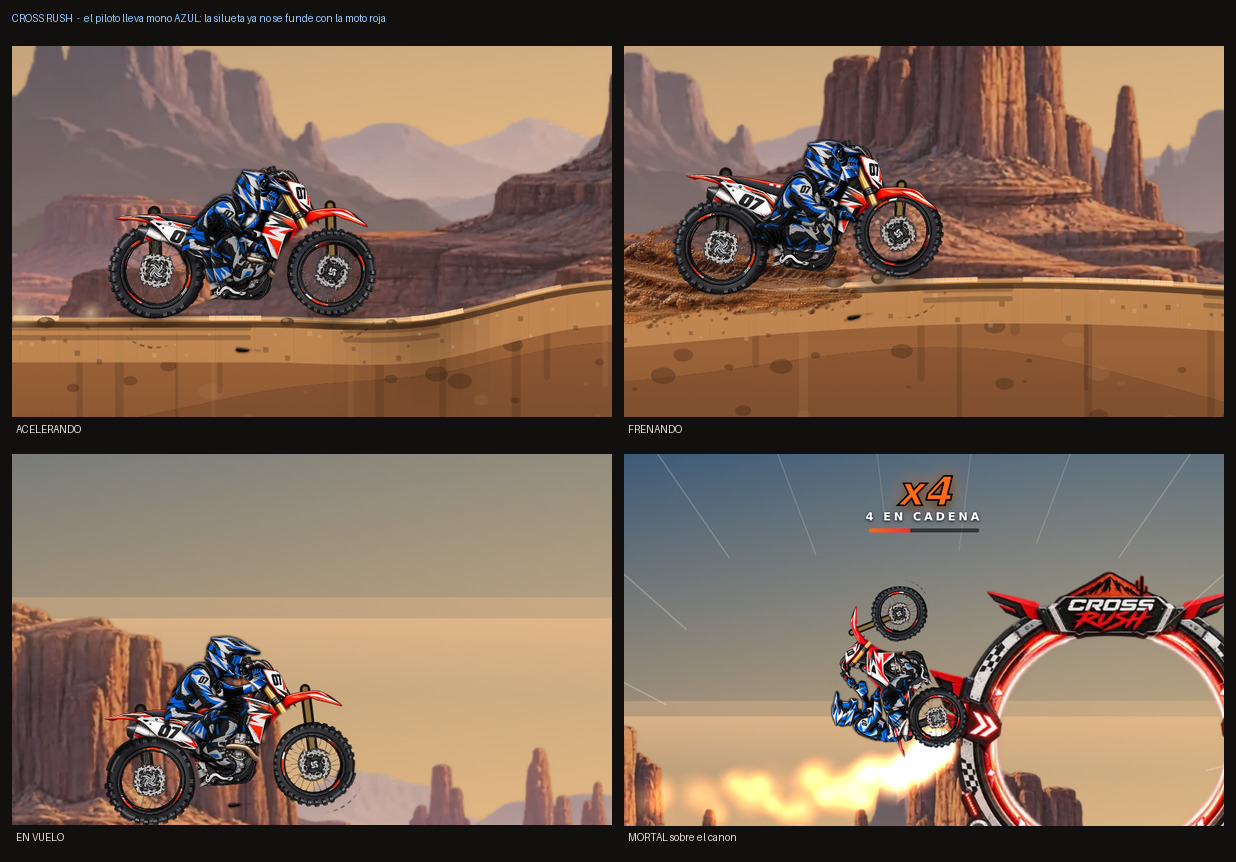
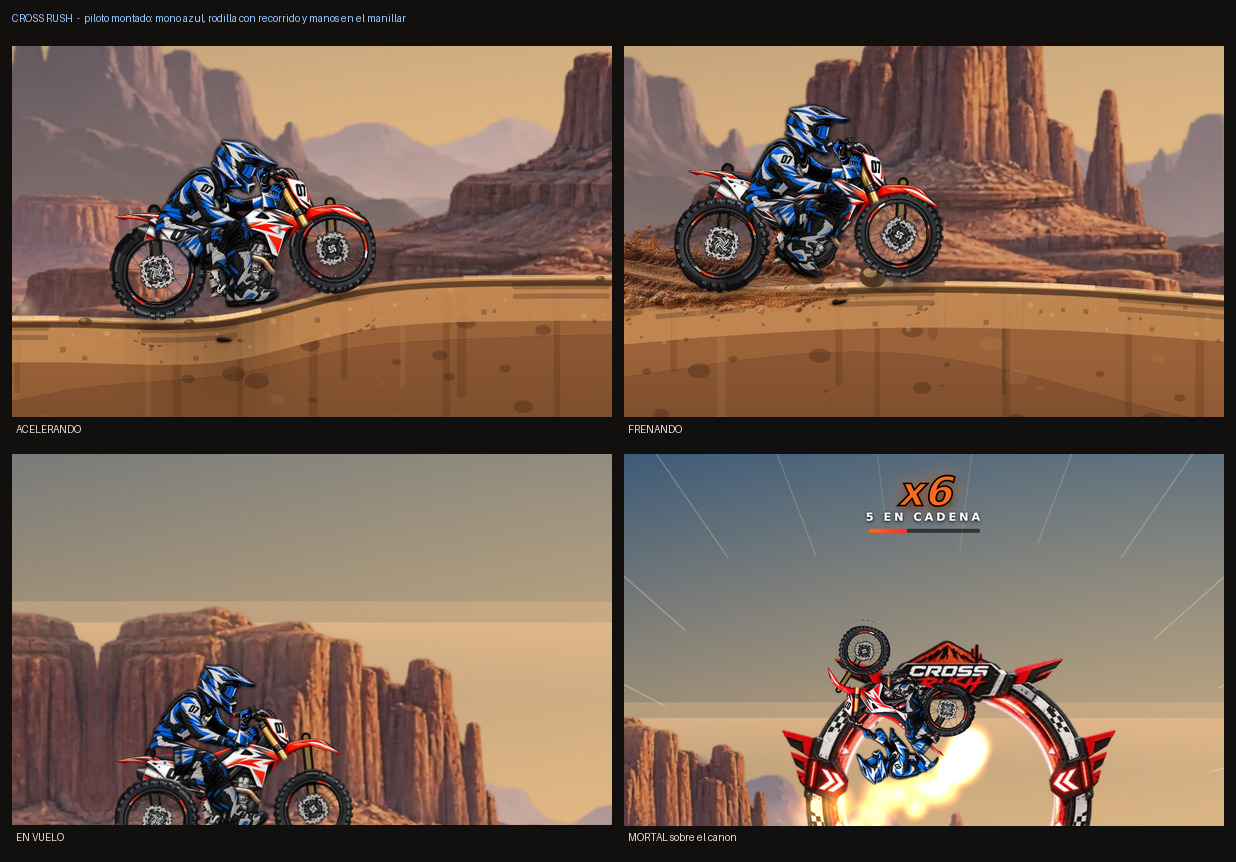
El piloto va montado en la moto, no pegado encima
Se veia mal desde el principio y no lo cazaba nada: ni un tipo, ni un test, ni
el QA visual. El piloto parecia una mancha azul sobre el carenado en vez de
alguien conduciendo.

La causa eran los dos anclajes del rig, y los dos caian dentro del motor:

- La CADERA estaba a -0,17 m, veinte centimetros por debajo del asiento. El
  cuerpo no se apoyaba en la moto, se hundia en ella.
- La ESTRIBERA estaba a -0,27 m. El arte de la moto la pone en el pixel
  (370, 330), que con el centro de masas en (341.7, 176.3) y la foto a 347
  px/m son (+0,08, -0,44): estaba 17 cm mas arriba de donde el propio dibujo
  dice que esta. La subi yo, para arreglar una bota que colgaba por debajo del
  carter, y fue un error de diagnostico: la bota colgaba por la cadera.

Entre las dos, la cadera acababa a 6 cm del tobillo con 52 cm de pierna que
colocar, asi que la cinematica inversa no tenia mas remedio que plegarla del
todo. Medido sobre una vuelta completa, antes y ahora:

  rodilla                          0-70 grados (mediana 37)  ->  76-180 (97)
  manos fuera del manillar         65,4% de los fotogramas   ->  2,4%
  pie fuera de la estribera        0% (sobraba pierna)       ->  3,1%
  altura del piloto agachado       1,28 m                    ->  1,42 m

La segunda linea es la que explica lo que se veia: durante dos tercios de la
vuelta el piloto ni siquiera se agarraba al manillar.

Los anclajes nuevos no se eligen a ojo. Se graban las 3.167 poses de una
[…]

diff --git a/cross-rush/tests/riderRig.test.ts b/cross-rush/tests/riderRig.test.ts
@@ -1,0 +1,167 @@
+/**
+ * El piloto tiene que ir MONTADO en la moto, no pegado encima.
+ *
+ * Esta prueba existe por un fallo que sobrevivio a varias rondas de revision
+ * visual porque nadie lo estaba midiendo: la cadera del piloto estaba anclada
+ * 20 cm por debajo del asiento -dentro del motor- y la estribera 17 cm por
+ * encima de donde la pone el arte. Entre las dos, la cadera acababa a 6 cm del
+ * tobillo con 52 cm de pierna que colocar, asi que la cinematica inversa no
+ * tenia mas remedio que plegarla del todo: la rodilla salia a 7 grados y el
+ * muslo, la espinilla y la bota se amontonaban en una mancha sobre el
+ * carenado. Peor todavia, el brazo se quedaba corto y las manos se despegaban
+ * del manillar en dos de cada tres fotogramas.
+ *
+ * Nada de eso rompia un test ni un tipo. Se veia, y punto. De ahi que lo que
+ * se comprueba aqui sea justo lo que se veia mal.
+ */
+import { describe, expect, it } from 'vitest';
+import { BikeState, createInitialBikeState, stepBike } from '../src/physics/Bike';
+import { InputSmoother } from '../src/input/InputSmoothing';
+import { buildCanyonRun } from '../src/tracks/CanyonRun';
+import { RiderConfig, SIM_DT } from '../src/config/GameConfig';
+
+// SpriteAssets construye HTMLImageElement al cargarse, que en node no existe.
+// El rig no los usa para resolver la postura -solo para dibujarla-, asi que un
+// doble minimo basta para poder importar el modulo y medir la geometria.
+(globalThis as unknown as { Image: unknown }).Image = class {
+  src = '';
+  naturalWidth = 1;
+  naturalHeight = 1;
+};
+
+const { solveRiderRig, HANDLEBAR_GRIP_LOCAL, FOOTPEG_LOCAL } = await import('../src/rendering/RiderRig');
+const { SpriteCalibration } = await import('../src/rendering/SpriteAssets');
+
+const rig = SpriteCalibration.riderRig;
+const legReach = (rig.thigh.lengthPx + rig.shin.lengthPx) / rig.pxPerMeter;
+const armReach = (rig.armUpper.lengthPx + rig.armFore.lengthPx) / rig.pxPerMeter;
+
+/** El tobillo apunta un poco por encima de la estribera (ver RiderRig). */
+const ANKLE_OVER_PEG = { x: -0.02, y: 0.1 };
+
+function pose(shiftX: number, shiftY: number, torsoAngle: number) {
+  return { shiftX, shiftY, torsoAngle, shiftXVelocity: 0, shiftYVelocity: 0, torsoVelocity: 0 };
+}
+
+function distance(a: { x: number; y: number }, b: { x: number; y: number }): number {
+  return Math.hypot(a.x - b.x, a.y - b.y);
+}
+
+/** Angulo interior de la rodilla en grados: 180 es pierna estirada. */
+function kneeDegrees(hipToAnkle: number): number {
+  const t = rig.thigh.lengthPx / rig.pxPerMeter;
+  const s = rig.shin.lengthPx / rig.pxPerMeter;
+  const d = Math.min(hipToAnkle, t + s);
+  const cos = (t * t + s * s - d * d) / (2 * t * s);
+  return (Math.acos(Math.max(-1, Math.min(1, cos))) * 180) / Math.PI;
+}
+
+/**
+ * Poses REALES, no un barrido sobre la caja de topes.
+ *
+ * El primer intento de esta prueba recorria el rectangulo completo
+ * (maxShiftX x maxShiftY x maxTorsoAngle) y suspendia con cualquier anclaje:
+ * sus esquinas -cuerpo del todo atras Y del todo agachado Y con el torso
+ * girado al maximo- no ocurren jamas, porque las tres cosas las produce la
+ * misma fisica y van acopladas. Medir sobre poses imposibles habria obligado a
+ * elegir anclajes malos para las de verdad.
+ *
+ * Asi que se conduce: la moto rueda a gas por la pista de verdad, salta lo que
+ * tenga que saltar, y se mide el rig sobre la pose que sale de cada tick.
+ */
+function posesDeUnaVuelta(): Array<{ hipToAnkle: number; shoulderToGrip: number }> {
+  const track = buildCanyonRun();
+  let state: BikeState = createInitialBikeState(track.startX, track.terrain.surfaceY(track.startX) + 0.6);
+  const smoother = new InputSmoother();
+  const out: Array<{ hipToAnkle: number; shoulderToGrip: number }> = [];
+  const ankle = { x: FOOTPEG_LOCAL.x + ANKLE_OVER_PEG.x, y: FOOTPEG_LOCAL.y + ANKLE_OVER_PEG.y };
+  const ticks = Math.round(45 / SIM_DT);
+  for (let i = 0; i < ticks; i += 1) {
+    // Se pilota igual que el arnes de captura: gas a fondo y el cuerpo
+    // buscando la pendiente que viene mientras se vuela.
+    const air = !state.front.inContact && !state.rear.inContact;
+    let lean = 0;
+    if (air) {
+      const ahead = state.x + Math.max(2, Math.abs(state.vx) * 0.32);
+      const target = Math.atan(track.terrain.surfaceSlope(ahead));
+      let delta = target - state.angle;
+      while (delta > Math.PI) delta -= Math.PI * 2;
+      while (delta <= -Math.PI) delta += Math.PI * 2;
+      const want = delta * 2.2 - state.angularVelocity * 0.42;
+      lean = want > 0.25 ? 1 : want < -0.25 ? -1 : 0;
+    }
+    const smoothed = smoother.update(
+      { throttle: true, brake: false, lean, restartPressed: false, boostPressed: false },
+      SIM_DT,
+    );
+    state = stepBike(state, track.terrain, { throttle: true, brake: false, lean: smoothed.lean, smoothed }, SIM_DT);
+    const g = solveRiderRig({ x: state.x, y: state.y }, state.angle, state.rider, 100);
+    // El rig se resuelve en mundo; para medir alcances se compara contra los
+    // agarres llevados al mismo espacio.
+    const cos = Math.cos(state.angle);
+    const sin = Math.sin(state.angle);
+    const toWorld = (p: { x: number; y: number }) => ({
+      x: state.x + p.x * cos - p.y * sin,
+      y: state.y + p.x * sin + p.y * cos,
+    });
+    out.push({
+      hipToAnkle: distance(g.hipWorld, toWorld(ankle)),
+      shoulderToGrip: distance(g.shoulderWorld, toWorld(HANDLEBAR_GRIP_LOCAL)),
+    });
+    if (state.x > track.finishX) break;
+  }
+  return out;
+}
+
+describe('anclajes del piloto', () => {
+  it('la estribera esta donde la pone el arte de la moto, no dentro del motor', () => {
+    // Pixel (370, 330) de bike_body.png, con el centro de masas en
+    // (341.7, 176.3) y la foto a 347 px/m.
+    expect(FOOTPEG_LOCAL.x).toBeCloseTo((370 - 341.7) / 347, 2);
+    expect(FOOTPEG_LOCAL.y).toBeCloseTo(-(330 - 176.3) / 347, 2);
+  });
+
+  it('sentado en reposo la rodilla va franca, no plegada', () => {
+    const g = solveRiderRig({ x: 0, y: 0 }, 0, pose(0, 0, 0), 100);
+    const ankle = { x: FOOTPEG_LOCAL.x + ANKLE_OVER_PEG.x, y: FOOTPEG_LOCAL.y + ANKLE_OVER_PEG.y };
+    const knee = kneeDegrees(distance(g.hipWorld, ankle));
+    // Un piloto sentado en una moto de cross lleva la rodilla cerca de 90
+    // grados. Con los anclajes viejos salian 7.
+    expect(knee).toBeGreaterThan(70);
+    expect(knee).toBeLessThan(115);
+  });
+
+  it('el pie se queda en la estribera durante toda la vuelta', () => {
+    const muestras = posesDeUnaVuelta();
+    expect(muestras.length).toBeGreaterThan(2000);
+    const fuera = muestras.filter((s) => s.hipToAnkle > legReach);
+    // Solo se admite despegue en el pico de extension de un salto grande.
+    expect(fuera.length / muestras.length).toBeLessThan(0.08);
+  });
+
+  it('las manos se quedan en el manillar durante toda la vuelta', () => {
+    const muestras = posesDeUnaVuelta();
+    const fuera = muestras.filter((s) => s.shoulderToGrip > armReach);
+    // Con los anclajes viejos se despegaban en DOS DE CADA TRES fotogramas.
+    expect(fuera.length / muestras.length).toBeLessThan(0.08);
+  });
+
+  it('la pierna trabaja: se dobla y se estira a lo largo de la vuelta', () => {
+    const rodillas = posesDeUnaVuelta().map((s) => kneeDegrees(s.hipToAnkle));
+    const min = Math.min(...rodillas);
+    const max = Math.max(...rodillas);
+    // Antes iba de 0 a 70 grados: siempre plegada, sin recorrido util.
+    expect(min).toBeGreaterThan(55);
+    expect(max - min).toBeGreaterThan(50);
+  });
+
+  it('el piloto tiene medidas de adulto sobre esta moto', () => {
+    const hipToHelmet = 226.9 / rig.pxPerMeter;
+    // Cadera a coronilla de un adulto: 0,80-0,95 m. Con 300 px/m salian 0,76.
+    expect(hipToHelmet).toBeGreaterThan(0.8);
+    expect(hipToHelmet).toBeLessThan(0.95);
+    // Y las extremidades tienen que dar mas de si que el recorrido del cuerpo.
+    expect(legReach).toBeGreaterThan(2 * RiderConfig.maxShiftY);
+    expect(armReach).toBeGreaterThan(RiderConfig.maxShiftY);
+  });
+});

diff --git a/cross-rush/src/rendering/RiderRig.ts b/cross-rush/src/rendering/RiderRig.ts
@@ -32,34 +32,51 @@ import { RiderPose } from '../physics/RiderPose';
  * centro de masas en (341.7, 176.3), con la foto a 347 px/m.
  */
 export const HANDLEBAR_GRIP_LOCAL: Vec2 = { x: 0.19, y: 0.40 };
-/** Estribera, en el mismo espacio. Pixel (370, 330) de la foto del chasis. */
 /**
  * Estribera en espacio local del chasis.
  *
- * Estaba a 0,42 m por debajo del centro de masas, que sobre este arte deja el
- * apoyo a 23 cm del suelo: mas abajo que el motor. La bota del piloto, que
- * sobresale por delante del tobillo, acababa colgando por debajo del carter,
- * flotando fuera de la moto. En una moto de verdad la estribera esta a la
- * altura del bajo del motor, no debajo.
+ * Sale del arte, no de una estimacion: en `bike_body.png` la estribera cae en
+ * el pixel (370, 330), y con el centro de masas en (341.7, 176.3) y la foto a
+ * 347 px/m eso son (+0.08, -0.44) m. Queda a la altura del bajo del motor,
+ * que es donde esta en una moto de verdad.
+ *
+ * Estuvo subida a -0,27 para arreglar una bota que colgaba por debajo del
+ * carter, y fue un error de diagnostico: la bota colgaba porque la CADERA
+ * estaba demasiado baja y la pierna salia doblada del todo, no porque la
+ * estribera estuviera mal. Subirla ademas dejaba el apoyo dentro del motor,
+ * a 10 cm de la cadera, y remataba de plegar la pierna.
  */
-export const FOOTPEG_LOCAL: Vec2 = { x: 0.02, y: -0.27 };
+export const FOOTPEG_LOCAL: Vec2 = { x: 0.08, y: -0.44 };
 /**
  * Cadera del piloto en reposo, en espacio local del chasis. Es el punto sobre
  * el que actua la pose (desplazamiento y agachado); las extremidades salen de
  * ahi y se resuelven contra los agarres.
  *
- * Queda por encima del asiento (que esta a y = -0.18) porque el arte del
- * piloto es una pose de ataque, de pie sobre las estriberas: en esa postura
- * las caderas van flotando sobre el asiento, no apoyadas en el.
- */
-/**
- * Cadera del piloto en espacio local del chasis.
+ * Es el numero que hacia que el piloto se viera "pegado" a la moto. Estuvo en
+ * -0,17, o sea 20 cm por debajo del asiento: la cadera caia DENTRO del motor,
+ * a 6 cm del tobillo, y con 52 cm de pierna disponible la cinematica inversa
+ * no tenia mas remedio que plegarla entera. La rodilla salia a 7 grados -una
+ * navaja cerrada- y el muslo, la espinilla y la bota se amontonaban en una
+ * mancha sobre el carenado. No habia postura, habia bulto.
  *
- * Bajada de -0,09 a -0,17: con la anterior el cuerpo quedaba apoyado ENCIMA
- * del asiento en vez de metido en el, y el conjunto se leia como un muneco
- * colocado sobre la moto y no como alguien montado.
+ * Ahora sale de una medida, no de una estimacion: se graban las 3.167 poses
+ * de una vuelta completa (desplazamiento del cuerpo y giro de torso reales) y
+ * se busca el par cadera/escala que sobre ESAS poses deja la rodilla cerca de
+ * los 90 grados en reposo y mantiene pegados el pie a la estribera y las manos
+ * al manillar el mayor numero de fotogramas.
+ *
+ * Sobre la misma vuelta, antes y despues:
+ *
+ *   antes    rodilla 0-70 grados (mediana 37), manos FUERA del manillar en el
+ *            65% de los fotogramas, hasta 19 cm
+ *   ahora    rodilla 76-180 (mediana 97), manos fuera en el 2,4% (peor 5 cm) y
+ *            pie fuera de la estribera en el 3,1% (peor 10 cm), y solo en el
+ *            pico de extension de un salto grande
+ *
+ * O sea que el problema no era solo que la pierna se viera plegada: durante
+ * dos tercios de la vuelta el piloto ni siquiera se agarraba al manillar.
  */
-export const RIDER_HIP_LOCAL: Vec2 = { x: -0.06, y: -0.17 };
+export const RIDER_HIP_LOCAL: Vec2 = { x: -0.22, y: -0.03 };
 
 /**
  * Desplazamiento de la pierna del lado LEJANO respecto a la cercana. La misma

diff --git a/cross-rush/src/rendering/SpriteAssets.ts b/cross-rush/src/rendering/SpriteAssets.ts
@@ -181,12 +181,6 @@ export const SpriteCalibration = {
    */
   wheelRear: { pivotPx: { x: 134.0, y: 134.0 } as PixelPoint, tyreRadiusPx: 131.3 },
   wheelFront: { pivotPx: { x: 123.0, y: 123.0 } as PixelPoint, tyreRadiusPx: 120.8 },
-  rider: {
-    /** Punto de cadera/asiento dentro de rider.png, para anclarlo al asiento de la moto. */
-    hipPivotPx: { x: 105.0, y: 226.0 } as PixelPoint,
-    /** Altura efectiva asumida de la postura agachada, en metros (calibra la escala del piloto). */
-    assumedHeightMeters: 1.4,
-  },
 
   /**
    * Piloto articulado. Las cinco piezas las produce
@@ -194,15 +188,23 @@ export const SpriteCalibration = {
    * -tamano y pivote de cada una, longitudes de hueso- queda volcada en
    * `assets-src/rider_rig.json`. Aqui se copia lo que necesita el render.
    *
-   * `pxPerMeter` es la escala del piloto: 300 px por metro. No es arbitraria,
-   * sale de que con ella el alcance de la pierna (156.7 px = 0.52 m) cubre
-   * holgadamente la distancia de la cadera a la estribera (0.40 m) con la
-   * rodilla doblada, y el del brazo (98 px = 0.33 m) cubre la del hombro al
-   * manillar (0.25 m) con el codo doblado. Es decir: el piloto llega a los dos
-   * agarres sin estirarse del todo, que es como se conduce.
+   * `pxPerMeter` es la escala del piloto: 270 px por metro.
+   *
+   * Estuvo en 300 y era demasiado pequeno. Con esa escala el piloto media
+   * 1,28 m agachado -un nino-, pero lo que de verdad importaba es que su
+   * pierna entera alcanzaba 0,52 m y su brazo 0,33 m, mientras que la pose le
+   * pide a la cadera un recorrido de 0,48 m en vertical y 0,35 m en
+   * horizontal. No cabia, y las extremidades se quedaban cortas la mayor
+   * parte de la vuelta.
+   *
+   * A 270 px/m el alcance sube a 0,58 m de pierna y 0,36 m de brazo. Medido
+   * sobre las poses reales de una vuelta, ese margen baja los fotogramas con
+   * la mano despegada del manillar del 65% al 2,4%. De paso el piloto pasa a
+   * medir 1,42 m agachado, que es lo que mide un adulto en esa postura sobre
+   * una moto cuyo asiento queda a 1,06 m del suelo.
    */
   riderRig: {
-    pxPerMeter: 300,
+    pxPerMeter: 270,
     /** Angulo del hueso en la foto, en convenio de mundo (Y arriba). */
     torso: { pivotPx: { x: 105.0, y: 226.0 } as PixelPoint, shoulderPx: { x: 158.0, y: 122.0 } as PixelPoint },
     armUpper: { pivotPx: { x: 38.0, y: 34.0 } as PixelPoint, lengthPx: 58.3, restAngle: -0.5404 },

diff --git a/cross-rush/src/rendering/Renderer.ts b/cross-rush/src/rendering/Renderer.ts
@@ -940,9 +940,12 @@ export class Renderer {
     // un piloto con otro aspecto que el de la moto real. El fantasma es una
     // silueta translucida, asi que el torso solo se lee igual de bien.
     const seatOffset = rotateVec(SEAT_LOCAL, ghost.rotation);
+    // La escala sale del rig, no de una altura asumida aparte: es el MISMO
+    // sprite que dibuja el piloto vivo, asi que si las dos escalas se
+    // declaran por separado acaban separandose. Paso: al recalibrar el rig a
+    // 270 px/m el fantasma se quedo un 11% mas pequeno que el piloto real.
     const torso = SpriteImages.riderTorso;
-    const torsoPxPerMeter = torso.naturalHeight / SpriteCalibration.rider.assumedHeightMeters;
-    const torsoScale = torsoPxPerMeter > 0 ? camera.pixelsPerMeter / torsoPxPerMeter : 0;
+    const torsoScale = camera.pixelsPerMeter / SpriteCalibration.riderRig.pxPerMeter;
     this.drawRigidSprite(
       ghostTint(torso),
       this.worldToScreen(camera, ghost.x + seatOffset.x, ghost.y + seatOffset.y, shake),

diff --git a/cross-rush/docs/QA_VISUAL.md b/cross-rush/docs/QA_VISUAL.md
@@ -289,14 +289,56 @@ juego en `docs/qa/secuencia/piloto-en-juego.jpg`.
 
 ### El piloto va montado, no encima
 
-Dos anclajes estaban mal y se notaba en todas las poses:
+Este fue el fallo que mas tardo en salir, porque no rompia nada: ni un tipo,
+ni un test, ni el QA visual. Solo se veia. El piloto parecia "pegado" a la
+moto, una mancha azul sobre el carenado en vez de alguien conduciendo.
 
-- La **estribera** estaba a 0,42 m bajo el centro de masas, o sea a 23 cm del
-  suelo: mas abajo que el motor. La bota, que sobresale por delante del
-  tobillo, colgaba por debajo del carter, flotando fuera de la moto.
-- La **cadera** estaba tan alta que el cuerpo se apoyaba ENCIMA del asiento en
-  vez de meterse en el, y el conjunto se leia como un muneco colocado sobre la
-  moto.
+La causa eran los dos anclajes del rig, y los dos estaban dentro del motor:
+
+- La **cadera** estaba a -0,17 m, o sea 20 cm por DEBAJO del asiento. El
+  cuerpo no se apoyaba en la moto: se hundia en ella.
+- La **estribera** estaba a -0,27 m. El arte de la moto la pone en el pixel
+  (370, 330), que con el centro de masas en (341.7, 176.3) y la foto a 347
+  px/m son (+0,08, -0,44): estaba 17 cm mas arriba de donde el propio dibujo
+  dice que esta.
+
+Entre las dos, la cadera quedaba a 6 cm del tobillo con 52 cm de pierna que
+colocar. La cinematica inversa no tenia otra salida que plegarla del todo:
+
+| | antes | ahora |
+| --- | --- | --- |
+| angulo de rodilla (vuelta entera) | 0-70 grados, mediana 37 | 76-180, mediana 97 |
+| fotogramas con la mano fuera del manillar | **65,4%**, hasta 19 cm | 2,4%, peor 5 cm |
+| fotogramas con el pie fuera de la estribera | 0% (la pierna sobraba) | 3,1%, peor 10 cm |
+| altura del piloto agachado | 1,28 m | 1,42 m |
+
+La linea que mas explica lo que se veia es la segunda: durante dos tercios de
+la vuelta el piloto ni siquiera se estaba agarrando al manillar.
+
+Los anclajes nuevos no se eligen a ojo. Se graban las 3.167 poses de una
+vuelta completa -desplazamiento del cuerpo y giro de torso reales- y se busca
+el par cadera/escala que sobre ESAS poses deja la rodilla cerca de los 90
+grados en reposo y mantiene pegados el pie y las manos el mayor numero de
+fotogramas. La escala del piloto sube de 300 a 270 px/m, porque con 300 su
+pierna alcanzaba 0,52 m y su brazo 0,33 m mientras la pose le pide a la cadera
+un recorrido de 0,48 m: no cabia.
+
+Un primer intento de prueba barria el rectangulo completo de topes
+(maxShiftX x maxShiftY x maxTorsoAngle) y suspendia con cualquier anclaje: sus
+esquinas -cuerpo del todo atras Y del todo agachado Y con el torso girado al
+maximo- no ocurren nunca, porque las tres cosas las produce la misma fisica y
+van acopladas. `tests/riderRig.test.ts` conduce en su lugar: rueda la moto a
+gas por la pista de verdad y mide el rig sobre la pose que sale de cada tick.
+Con los anclajes viejos falla 5 de sus 6 comprobaciones.
+
+Comparacion en `docs/qa/secuencia/piloto-postura-antes-despues.jpg`, y el
+banco de ensamblaje entero -nueve poses- en `piloto-montado.png`.
+
+De paso salio otra inconsistencia de la misma familia: el piloto del FANTASMA
+dibujaba el mismo sprite de torso con una escala declarada por separado
+(`rider.assumedHeightMeters`), asi que al recalibrar el rig se quedo un 11%
+mas pequeno que el piloto real. Ahora las dos salen de
+`riderRig.pxPerMeter` y no pueden separarse.
 
 Se ven en `docs/qa/secuencia/piloto-montado.png`, que es el banco de
 ensamblaje (`rig-check.html`) con los marcadores de fisica encima: nueve poses
